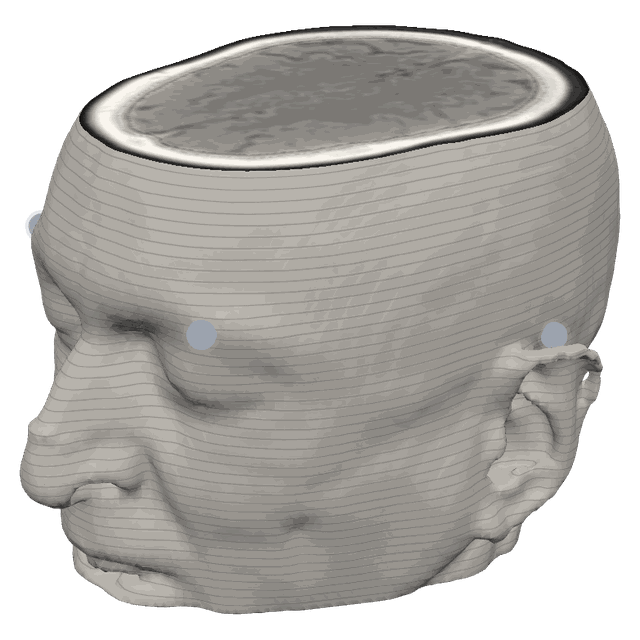
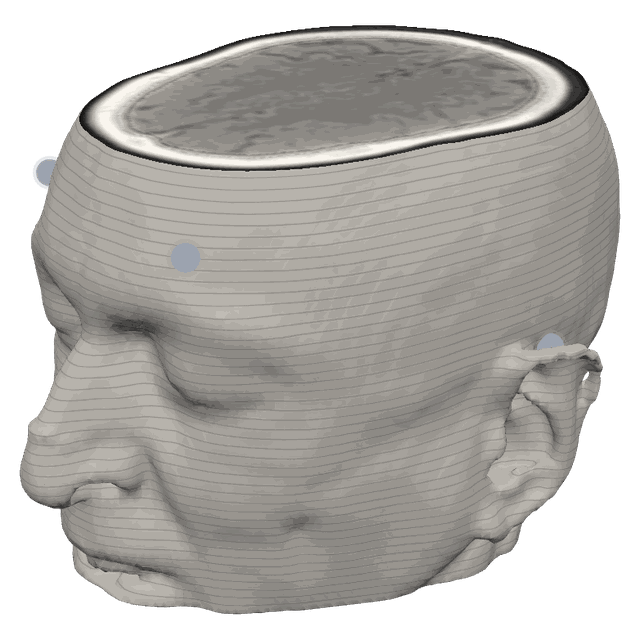
The head: forehead electrodes above the eyebrows; on the home page a bigger picture, a head rather than a named one, and Rich Fletcher credited
Electrodes. AF7 and AF8 sat at the brow (10 mm above the bridge of the nose,
which is where this head's brow ridge is). They are now on the forehead,
34 mm above the bridge of the nose and a little nearer the middle, where a
Muse headband's forehead sensors rest. Heights are measured from the nasion,
which make_head.py finds on the scan; the ear pair is taken where a ray
first leaves the head, so it stays on the scalp behind the ear and not on
the ear.

Home page. The picture of the head is larger (200 px, from 132) and sits at
the top right of the words, which run round it, so the menu and the note
keep their place. It is offered as a head ("Open a head: a real CT scan,
shown with the person's agreement"), without a name, and names Rich
Fletcher, whose own MRI is the link to his CV on his page at MIT, as the
inspiration. The small copy of the picture is gone; one still serves both
pages.

diff --git a/index.html b/index.html
@@ -5,19 +5,19 @@
 <meta name="viewport" content="width=device-width, initial-scale=1">
 <title>Cyborg Collective</title>
 <meta name="description" content="A window the person opens, not a feed that is taken: live brain-sensing shared on the person's own terms, and the record of a year of wearable EEG experiments.">
-<link rel="stylesheet" href="style.css?v=1794600340">
+<link rel="stylesheet" href="style.css?v=1794601507">
 <noscript><style>.needs-js { display: none !important; }</style></noscript>
 </head>
 <body>
 <div class="masthead">
 <header class="top">
   <h1>Cyborg Collective</h1>
+  <div class="head-link">
+    <a class="head-pic" href="head/" title="A head from a real CT scan: turn it, open it from the top, and see the scan itself on the cut"><img src="head/still.png" width="200" height="200" alt="A head rendered from a CT scan, the top cut away to show the scan's own slice of the brain inside the skull"></a>
+    <p><a class="head-open" href="head/">Open a head</a> A real CT scan, shown with the person's agreement: turn it and open it. Inspired by <a href="https://web.media.mit.edu/~fletcher/bio.html" target="_blank" rel="noopener">Rich Fletcher</a>, whose own MRI is the link to his CV on his page at MIT.</p>
+  </div>
   <p class="tag">A window the person opens, not a feed that is taken. Live headbands when someone chooses to share; the record of every recording behind them, always.</p>
   <p class="about" id="about-6ense"><span class="mark6" id="mark-6ense">6ense™</span> refers to the “<a href="https://en.wikipedia.org/wiki/SixthSense" target="_blank" rel="noopener">Sixth Sense™</a>” wearable technology system that uses wearable sensors and functions like an additional human sense for a community of “cyborgs”. The term “Sixth Sense™” in this sense was coined by Steve Mann in 2001 for work he did in 1994 and 1997 (<a href="https://en.wikipedia.org/wiki/SixthSense" target="_blank" rel="noopener">link</a>).</p>
-  <a class="head-link" href="head/" title="Steve Mann's head from his own CT scan: turn it, open it from the top, and see the scan itself on the cut">
-    <img src="head/still_small.png" width="132" height="132" alt="Steve Mann's head rendered from his CT scan, the top cut away to show the scan's own slice of the brain inside the skull">
-    <span><b>Open Steve Mann's head</b> An actual CT scan of it, shown with his agreement. Turn it, open it from the top, and watch the brain take the colours of whoever is sharing.</span>
-  </a>
 </header>
 <nav>
   <a href="#live">Live</a><a href="#record">The record</a><button id="listen" class="nav-btn needs-js" aria-pressed="false" disabled title="The band plays by default: the brainwaves of the people sharing live; when nobody is, a piece generated from the record. This button stops it for this visit">♪ listen</button><span id="listen-status" class="nav-note needs-js">loading the band</span><a href="music/listen.html?relay=1" title="Mar(G)off: the full instrument, with the desk and the keys">The desk</a><a href="mood.html" title="How the room is feeling, counted anonymously from the phones that chose to be counted">Room mood</a><a href="space/" title="Rooms rebuilt from a headset's pictures, to walk through in 3-D, each with the film of its depth maps">Rooms in 3-D</a>

diff --git a/style.css b/style.css
@@ -78,10 +78,23 @@ canvas.bands, canvas.raw { width: 100%; display: block; margin-top: 8px; }
 /* shown only where scripts are off: where the lasting parts of the page are */
 main > header.top { padding-top: 28px; }      /* a page whose title sits in its one column (record.html) */
 /* the head that opens: a picture that is a link, as on Rich Fletcher's page */
-.head-link { display: flex; align-items: center; gap: 14px; margin: 12px 0 2px; max-width: 520px; text-decoration: none; color: var(--muted); font-size: 13px; line-height: 1.45; }
-.head-link img { flex: none; width: 132px; height: 132px; }
-.head-link b { display: block; color: var(--ink); font-size: 15px; margin-bottom: 2px; }
-.head-link:hover b, .head-link:focus-visible b { text-decoration: underline; }
+/* It sits at the top right of the words, which run round it, so that it can be large without pushing the menu and
+   the note down the page; on a narrow screen it comes after the words, picture and caption side by side. */
+.head-link { float: right; width: 200px; margin: 4px 0 6px 18px; color: var(--muted); font-size: 12.5px; line-height: 1.4; }
+.head-link .head-pic { display: block; line-height: 0; }
+.head-link img { width: 200px; height: 200px; display: block; }
+.head-link p { margin: 2px 0 0; }
+.head-link .head-open { display: block; color: var(--ink); font-size: 15px; font-weight: 700; text-decoration: none; margin-bottom: 1px; }
+.head-link .head-open:hover, .head-link .head-pic:hover + p .head-open { text-decoration: underline; }
+.head-link p a:not(.head-open) { color: inherit; }
+header.top::after { content: ""; display: block; clear: both; }
+@media (max-width: 600px) {
+  header.top { display: flex; flex-direction: column; }
+  .head-link { order: 9; float: none; width: auto; margin: 6px 0 2px; display: flex; align-items: center; gap: 14px; }
+  .head-link .head-pic { flex: none; }
+  .head-link img { width: 150px; height: 150px; }
+  header.top::after { display: none; }
+}
 .noscript-note { max-width: 70ch; margin: 0 0 18px; padding: 12px 14px; border: 1px solid var(--line); border-radius: 12px; background: var(--card); }
 table.sessions { width: 100%; border-collapse: collapse; font-size: 13px; }
 table.sessions th, table.sessions td { text-align: left; padding: 7px 8px; border-bottom: 1px solid var(--line); vertical-align: top; }

diff --git a/head/make_head.py b/head/make_head.py
@@ -33,9 +33,11 @@ SKIN_HU = -350.0                # between air and skin
 BONE_HU = 250.0
 GRID_MM = 1.875                 # the surface's grid in the slice plane (4 scanner pixels)
 Z_UP = 1.5                      # surface rows per slice spacing (the scan has a slice every 3 mm): a row every 2 mm
-# Where a Muse rests, as angles round the head from the front (towards the wearer's left) and millimetres below the top.
-# Approximate by construction: the 10-20 names are read off a head's own landmarks, which a script cannot feel for.
-SITES = (("AF7", 34.0, 82.0), ("AF8", -34.0, 82.0), ("TP9", 112.0, 104.0), ("TP10", -112.0, 104.0))
+# Where a Muse rests, as an angle round the head from the front (towards the wearer's left) and millimetres above the
+# bridge of the nose (the nasion, found on the scan as the deepest point of the midline between nose and forehead).
+# The forehead pair sits on the forehead, clear above the eyebrows (the brow ridge of this head is about 10 mm above
+# the nasion); the ear pair rests behind the ears, a little below it. Approximate: a script cannot feel for landmarks.
+SITES = (("AF7", 30.0, 34.0), ("AF8", -30.0, 34.0), ("TP9", 112.0, -12.0), ("TP10", -112.0, -12.0))
 
 
 def load_axial(src):
@@ -179,23 +181,37 @@ def main():
     Image.fromarray(grey).save(os.path.join(HERE, "slices.jpg"), quality=86, optimize=True)
     Image.fromarray(masks).save(os.path.join(HERE, "masks.png"), optimize=True)
 
+    # ---- the bridge of the nose: on the midline, the front of the face slice by slice; the nose tip is furthest
+    # forward, and the nasion is the deepest point in the 50 mm above it
+    cmid = int(round(axis_c))
+    front = np.full(n, -1e9)
+    for k_ in range(n):
+        rows_in = np.nonzero(body[k_, :, cmid - 6:cmid + 7].any(1))[0]
+        if len(rows_in):
+            front[k_] = (axis_r - rows_in.min()) * dy
+    tip = int(np.argmax(front[:n * 2 // 3]))
+    reach_k = int(round(50.0 / dz))
+    nasion_k = tip + 3 + int(np.argmin(front[tip + 3:tip + 3 + reach_k]))
+    print("nose tip at slice %d, nasion at slice %d (%.0f mm below the top)" % (tip, nasion_k, (top - nasion_k) * dz))
+
     # ---- where a Muse's electrodes rest: out from the axis at an angle and a height, to the last point inside the skin
-    def skin_point(angle_deg, below_top_mm):
-        ks = top - below_top_mm / dz
+    def skin_point(angle_deg, above_nasion_mm):
+        ks = nasion_k + above_nasion_mm / dz
         k0 = int(np.clip(round(ks), 0, n - 1))
         a = np.radians(angle_deg)
         d = np.array([np.sin(a), np.cos(a)])                                 # (to the left, to the front) in millimetres
         reach = 0.0
-        for mm in np.arange(20.0, 140.0, 0.5):
-            rr_ = axis_r - d[1] * mm / dy
+        for mm in np.arange(20.0, 140.0, 0.5):                               # out to where the ray first leaves the head:
+            rr_ = axis_r - d[1] * mm / dy                                    # the scalp behind the ear, not the ear beyond it
             cc_ = axis_c + d[0] * mm / dx
-            if 0 <= rr_ < rows - 1 and 0 <= cc_ < cols - 1 and body[k0, int(round(rr_)), int(round(cc_))]:
-                reach = mm
+            if not (0 <= rr_ < rows - 1 and 0 <= cc_ < cols - 1 and body[k0, int(round(rr_)), int(round(cc_))]):
+                break
+            reach = mm
         return [round(float(d[0] * reach), 1), round(float(Y(ks)), 1), round(float(d[1] * reach), 1)], [round(float(d[0]), 3), 0.0, round(float(d[1]), 3)]
 
     sites = []
-    for name, angle, below in SITES:
-        pos, normal = skin_point(angle, below)
+    for name, angle, above in SITES:
+        pos, normal = skin_point(angle, above)
         sites.append({"name": name, "pos": pos, "out": normal})
 
     info = {
@@ -208,7 +224,8 @@ def main():
                    "side_mm": side_mm, "first_y_mm": 0.0, "step_mm": round(dz, 3)},
         "top_y_mm": round(float(Y(top)), 1),
         "electrodes": sites,
-        "electrodes_note": "about where a Muse headband's four electrodes rest, placed by angle round the head and distance below the top, not by feeling for landmarks",
+        "nasion_y_mm": round(float(Y(nasion_k)), 1),
+        "electrodes_note": "about where a Muse headband's four electrodes rest: the forehead pair on the forehead above the eyebrows, the ear pair behind the ears; placed by angle round the head and height above the bridge of the nose as found on the scan",
     }
     with open(os.path.join(HERE, "head.json.tmp"), "w", encoding="utf-8", newline="\n") as f:
         json.dump(info, f, indent=1)

diff --git a/head/test_head_page.py b/head/test_head_page.py
@@ -3,6 +3,7 @@ live sharer, and with scripts off the still picture stands in.
 
     python head/test_head_page.py [URL of the head page] [folder for pictures]
     python head/test_head_page.py --still          # also rewrite head/still.png from the page as it draws now
+                                                   # (it is the home page's picture too: run this after make_head.py)
 
 Without a URL it serves this repository on a free local port. Live sharers are imitated by handing messages to the
 page's own handler; nothing is sent to any server.
@@ -145,8 +146,8 @@ def main():
             side = max(im.size)
             sq = Image.new("RGBA", (side, side), (0, 0, 0, 0))
             sq.paste(im, ((side - im.width) // 2, (side - im.height) // 2))
-            # two sizes, a few hundred colours each: the page's own picture for scripts-off, and the small one the home page links with
-            for name, px in (("still.png", 640), ("still_small.png", 264)):
+            # a couple of hundred colours: the page's own picture for scripts-off, and the picture the home page links with
+            for name, px in (("still.png", 640),):
                 out = sq.resize((px, px), Image.LANCZOS).quantize(colors=200, method=Image.Quantize.FASTOCTREE, dither=Image.Dither.FLOYDSTEINBERG)
                 out.save(os.path.join(HERE, name), optimize=True)
                 print("%s rewritten: %d KB" % (name, os.path.getsize(os.path.join(HERE, name)) // 1024))

diff --git a/test_survives.py b/test_survives.py
@@ -171,7 +171,8 @@ def browser_checks(url, serve):
               "the head, scripts off: its still picture and its words stand in")
         check(pg.context.request.get(url + "head/still.png").status == 200, "the head: the still picture answers")
         pg.goto(url, wait_until="load")
-        check(pg.locator('a.head-link[href="head/"] img').count() == 1 and pg.locator("a.head-link").is_visible(), "home, scripts off: the picture of the head is there and links to it")
+        check(pg.locator('.head-link a[href="head/"] img').count() == 1 and pg.locator(".head-link").is_visible(), "home, scripts off: the picture of the head is there and links to it")
+        check(pg.locator('.head-link a[href*="fletcher"]').count() == 1 and "Mann" not in pg.inner_text(".head-link"), "home: the head is offered as a head, with Rich Fletcher named as the inspiration")
         pg.context.close()
 
         print("2. the relay gone: the record and the band carry on")
